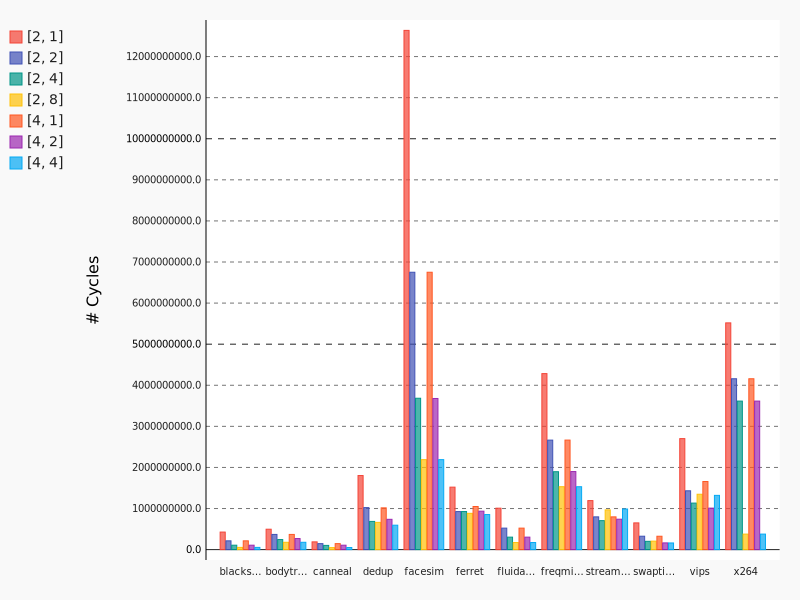
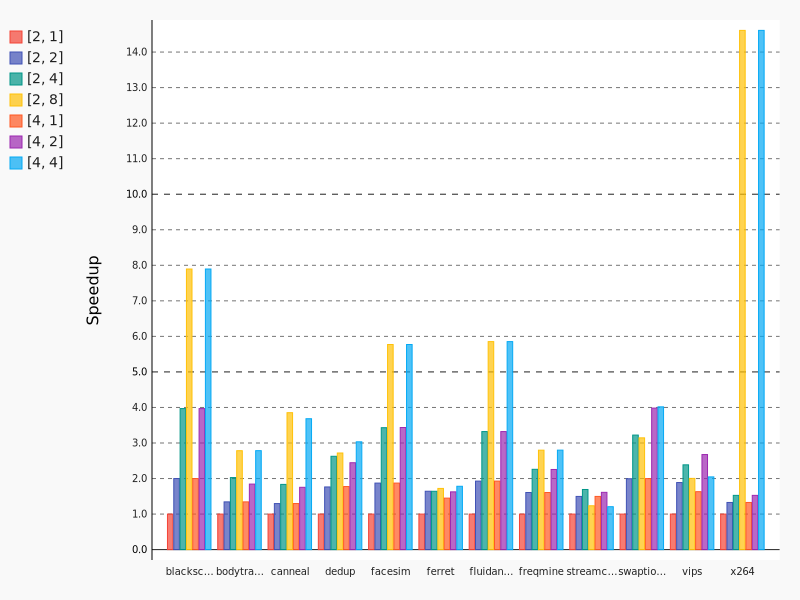
Second commit of experiment result plots generation: replace the numCycles plots with the speedup plots.

Changed region(s): [[0.1562, 0.03, 0.9688, 0.96], [0.1562, 0.06, 0.2812, 0.33], [0.0938, 0.42, 0.125, 0.54]]

diff --git a/ext/bjut/main.py b/ext/bjut/main.py
@@ -119,9 +119,6 @@ def generate_csv_ccnuma_experiments(benches):
 
 
 def generate_csv(experiment_cls, csv_file_name, experiments):
-    if not gen_csv_file:
-        return
-
     with open(csv_file_name, 'w') as csv_file:
         writer = csv.writer(csv_file, delimiter=',', quotechar='"', quoting=csv.QUOTE_ALL)
 
@@ -133,9 +130,6 @@ def generate_csv(experiment_cls, csv_file_name, experiments):
 
 
 def generate_plot(plot_file_name, benches, experiment_funcs, y_title, y_func):
-    if not gen_plot_file:
-        return
-
     bar_chart = pygal.Bar()
     bar_chart.y_title = y_title
     bar_chart.x_labels = map(str, benches)
@@ -144,7 +138,7 @@ def generate_plot(plot_file_name, benches, experiment_funcs, y_title, y_func):
         values = []
         for bench in benches:
             experiment = experiment_func(bench)
-            values.append(y_func(experiment))
+            values.append(y_func(bench, experiment))
         bar_chart.add(x_label, values)
 
     print 'Generating plot "' + plot_file_name + '"'
@@ -153,12 +147,6 @@ def generate_plot(plot_file_name, benches, experiment_funcs, y_title, y_func):
 
 # gen_mcpat_xml_file = True
 gen_mcpat_xml_file = False
-
-# gen_csv_file = True
-gen_csv_file = False
-
-gen_plot_file = True
-# gen_plot_file = False
 
 if __name__ == '__main__':
     generate_csv_multicore_experiments(
@@ -205,14 +193,14 @@ if __name__ == '__main__':
         ('2MB', lambda bench: multicore(bench, '2MB', 8, 'LRU', 4)),
         ('4MB', lambda bench: multicore(bench, '4MB', 8, 'LRU', 4)),
         ('8MB', lambda bench: multicore(bench, '8MB', 8, 'LRU', 4))
-    ], 'L2 Miss Rate', lambda experiment: experiment.l2_miss_rate())
+    ], 'L2 Miss Rate', lambda bench, experiment: experiment.l2_miss_rate())
 
     generate_plot('../../multicore_l2tags.png', benches, [
         ('LRU', lambda bench: multicore(bench, '256kB', 8, 'LRU', 4)),
         ('IbRDP', lambda bench: multicore(bench, '256kB', 8, 'IbRDP', 4)),
         ('RRIP', lambda bench: multicore(bench, '256kB', 8, 'RRIP', 4)),
         ('DBRSP', lambda bench: multicore(bench, '256kB', 8, 'DBRSP', 4))
-    ], 'L2 Miss Rate', lambda experiment: experiment.l2_miss_rate())
+    ], 'L2 Miss Rate', lambda bench, experiment: experiment.l2_miss_rate())
 
     generate_plot('../../multicore_topologies.png', benches, [
         ('1', lambda bench: multicore(bench, '256kB', 8, 'LRU', 1)),
@@ -220,7 +208,7 @@ if __name__ == '__main__':
         ('4', lambda bench: multicore(bench, '256kB', 8, 'LRU', 4)),
         ('8', lambda bench: multicore(bench, '256kB', 8, 'LRU', 8)),
         ('16', lambda bench: multicore(bench, '256kB', 8, 'LRU', 16)),
-    ], '# Cycles', lambda experiment: experiment.num_cycles())
+    ], 'Speedup', lambda bench, experiment: multicore(bench, '256kB', 8, 'LRU', 1).num_cycles() / float(experiment.num_cycles()))
 
     generate_plot('../../ccnuma_l2sizes.png', benches, [
         ('256kB', lambda bench: ccnuma(bench, '256kB', 8, 'LRU', 2, 2, '1kB', 8, 'LRU')),
@@ -229,14 +217,14 @@ if __name__ == '__main__':
         ('2MB', lambda bench: ccnuma(bench, '2MB', 8, 'LRU', 2, 2, '1kB', 8, 'LRU')),
         ('4MB', lambda bench: ccnuma(bench, '4MB', 8, 'LRU', 2, 2, '1kB', 8, 'LRU')),
         ('8MB', lambda bench: ccnuma(bench, '8MB', 8, 'LRU', 2, 2, '1kB', 8, 'LRU'))
-    ], 'L2 Miss Rate', lambda experiment: experiment.l2_miss_rate())
+    ], 'L2 Miss Rate', lambda bench, experiment: experiment.l2_miss_rate())
 
     generate_plot('../../ccnuma_l2tags.png', benches, [
         ('LRU', lambda bench: ccnuma(bench, '256kB', 8, 'LRU', 2, 2, '1kB', 8, 'LRU')),
         ('IbRDP', lambda bench: ccnuma(bench, '256kB', 8, 'IbRDP', 2, 2, '1kB', 8, 'LRU')),
         ('RRIP', lambda bench: ccnuma(bench, '256kB', 8, 'RRIP', 2, 2, '1kB', 8, 'LRU')),
         ('DBRSP', lambda bench: ccnuma(bench, '256kB', 8, 'DBRSP', 2, 2, '1kB', 8, 'LRU'))
-    ], 'L2 Miss Rate', lambda experiment: experiment.l2_miss_rate())
+    ], 'L2 Miss Rate', lambda bench, experiment: experiment.l2_miss_rate())
 
     generate_plot('../../ccnuma_topologies.png', benches, [
         ('[2, 1]', lambda bench: ccnuma(bench, '256kB', 8, 'LRU', 2, 1, '1kB', 8, 'LRU')),
@@ -246,4 +234,4 @@ if __name__ == '__main__':
         ('[4, 1]', lambda bench: ccnuma(bench, '256kB', 8, 'LRU', 4, 1, '1kB', 8, 'LRU')),
         ('[4, 2]', lambda bench: ccnuma(bench, '256kB', 8, 'LRU', 4, 2, '1kB', 8, 'LRU')),
         ('[4, 4]', lambda bench: ccnuma(bench, '256kB', 8, 'LRU', 4, 4, '1kB', 8, 'LRU')),
-    ], '# Cycles', lambda experiment: experiment.num_cycles())
+    ], 'Speedup', lambda bench, experiment: ccnuma(bench, '256kB', 8, 'LRU', 2, 1, '1kB', 8, 'LRU').num_cycles() / float(experiment.num_cycles()))
